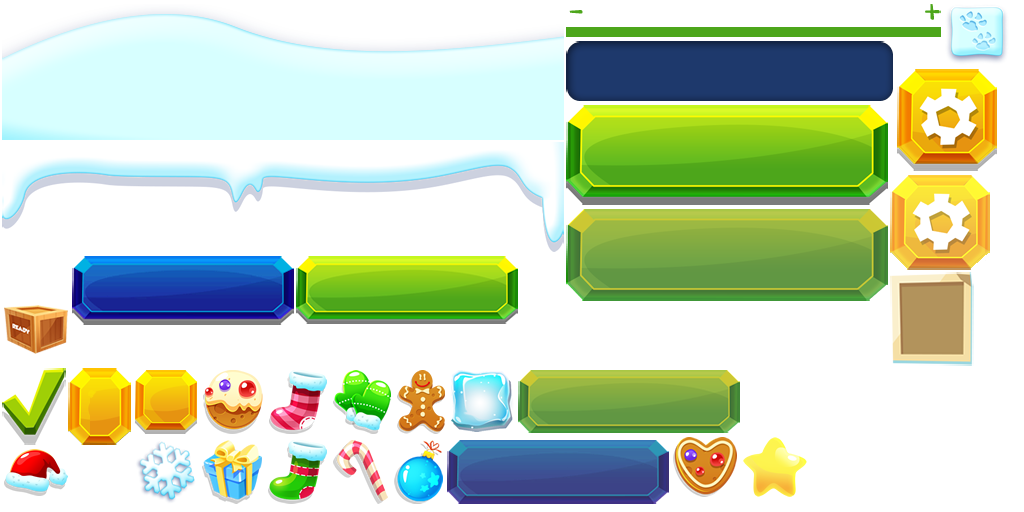
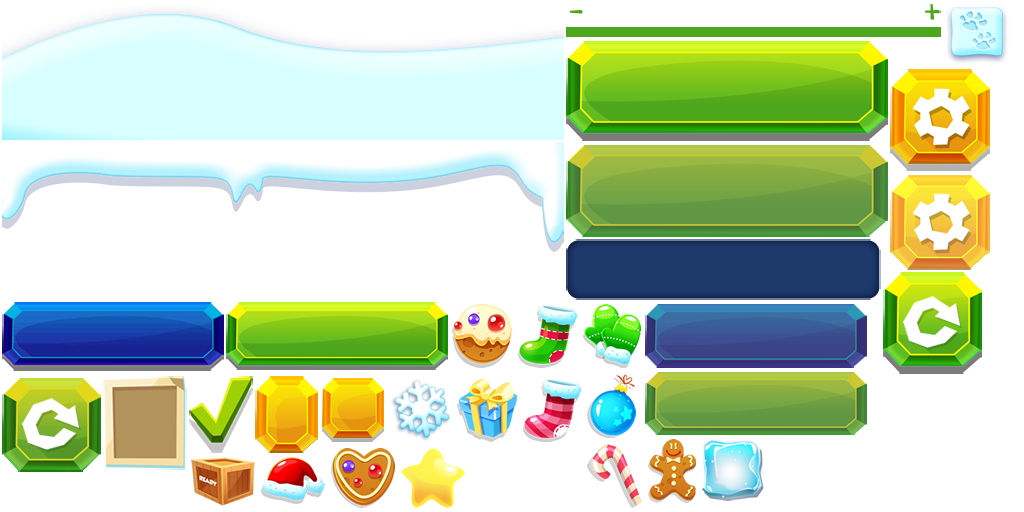
New game button + new assets

diff --git a/js/windows/main/MainState.js b/js/windows/main/MainState.js
@@ -14,20 +14,24 @@ function MainState() {
         var bg = this.game.add.image(0, 0, R.images.bg.cristmas); // bg
 
         var scoreBg = this.addImage(51, 50, R.images.ui.scoreBg);
-
+        scoreBg.alignIn(this.game.world, Phaser.TOP_CENTER, 0, -36);
         this.scoreText = this.game.add.bitmapText(200, 100, R.fonts.fedoka.name, "" + this.score, 48);
         this.scoreText.tint = "0xF9DC07";
         this.scoreText.anchor.set(0.5, 0.5);
         this.scoreText.alignIn(scoreBg, Phaser.CENTER);
 
-        this.addSettingsButton();
-        var settingsButton = uiBuilder.settingsButton(446, 34, this.onSettingsClick, this);
+        this.settingsButton = uiBuilder.settingsButton(0, 0, this.onSettingsClick, this);
+        this.settingsButton.alignTo(scoreBg, Phaser.RIGHT_CENTER, 12, 0);
+
+        this.newgameButton = uiBuilder.newGameButton(0, 0, this.onNewGameClick, this);
+        this.newgameButton.alignTo(scoreBg, Phaser.LEFT_CENTER, 12, 0);
+
 
         this.bejeweledComponent = this.addBejeweled();
         this.addBejeweledLogic(this.bejeweledComponent);
 
 
-        var snow1 = this.game.add.image(0, 0, R.images.overlay.snowTop.page, R.images.overlay.snowTop.name);
+        var snow1 = this.game.add.image(0, -10, R.images.overlay.snowTop.page, R.images.overlay.snowTop.name);
         var snow2 = this.game.add.image(0, 0, R.images.overlay.snowBottom.page, R.images.overlay.snowBottom.name);
         snow2.alignIn(bg, Phaser.BOTTOM_CENTER);
 
@@ -37,10 +41,10 @@ function MainState() {
             .alignIn(this.game.world, Phaser.BOTTOM_CENTER)
             .setCallback(this.onHintButtonClick, this);
 
-        this.gameOverPopup = new UiTextButton(this.game, 328, 256, "GAME OVER \n restart?", "#FF9900", "#AE6800")
-            .alignIn(this.game.world, Phaser.CENTER)
-            .setCallback(this.onNewGameClick, this);
-        this.gameOverPopup.kill();
+        this.addSettingsPopup();
+        this.addGameOverPopup();
+
+
 
         // todo delete
         var fps = new PhaserUtils.Fps(this.game, 0, 0);
@@ -59,11 +63,18 @@ function MainState() {
         var startPopup = new StartPopup(this.game).setNewGameCallBack(this.onResumeClick, this).show();
     };
 
-    this.addSettingsButton = function () {
+    this.addSettingsPopup = function () {
         this.settingsPopup = new SettingsPopup(this.game)
             .setNewGameCallBack(this.onNewGameClick, this)
             .setOnHideCallback(this.onSettingsHide, this);
         this.settingsPopup.rootView.alignIn(this.game.world, Phaser.CENTER);
+    };
+
+    this.addGameOverPopup = function () {
+        this.gameOverPopup = new UiTextButton(this.game, 328, 256, "GAME OVER \n restart?", "#FF9900", "#AE6800")
+            .alignIn(this.game.world, Phaser.CENTER)
+            .setCallback(this.onNewGameClick, this);
+        this.gameOverPopup.kill();
     };
 
     this.addBejeweled = function () {
@@ -134,6 +145,8 @@ function MainState() {
 
     this.onNewGameClick = function () {
         this.lockUi(false);
+        this.score = 0;
+        this.scoreText.setText(this.score);
         if (this.gameOverPopup.alive) this.gameOverPopup.kill();
         this.bejeweledComponent.restart();
     };

diff --git a/js/windows/main/MainClickUiBuilder.js b/js/windows/main/MainClickUiBuilder.js
@@ -18,3 +18,7 @@ function MainClickUiBuilder(game) {
 MainClickUiBuilder.prototype.settingsButton = function (x, y, callback, context) {
     return this.game.add.button(x, y, R.images.buttons.settingsIdle.page, callback, context, R.images.buttons.settingsIdle.name, R.images.buttons.settingsIdle.name, R.images.buttons.settingsPressed.name, R.images.buttons.settingsIdle.name);
 };
+
+MainClickUiBuilder.prototype.newGameButton = function (x, y, callback, context) {
+    return this.game.add.button(x, y, R.images.buttons.replayIdle.page, callback, context, R.images.buttons.replayIdle.name, R.images.buttons.replayIdle.name, R.images.buttons.replayPressed.name, R.images.buttons.replayIdle.name);
+};

diff --git a/js/assets/R.js b/js/assets/R.js
@@ -54,6 +54,8 @@ var R = {
         },
 
         buttons: {
+            replayIdle: {page: "cristmas_tiles", name: "buttons-replay-idle"},
+            replayPressed: {page: "cristmas_tiles", name: "buttons-replay-pressed"},
             settingsIdle: {page: "cristmas_tiles", name: "buttons-settings-idle"},
             settingsPressed: {page: "cristmas_tiles", name: "buttons-settings-pressed"},
             bigGreenIdle: {page: "cristmas_tiles", name: "button-green-big-idle"},
